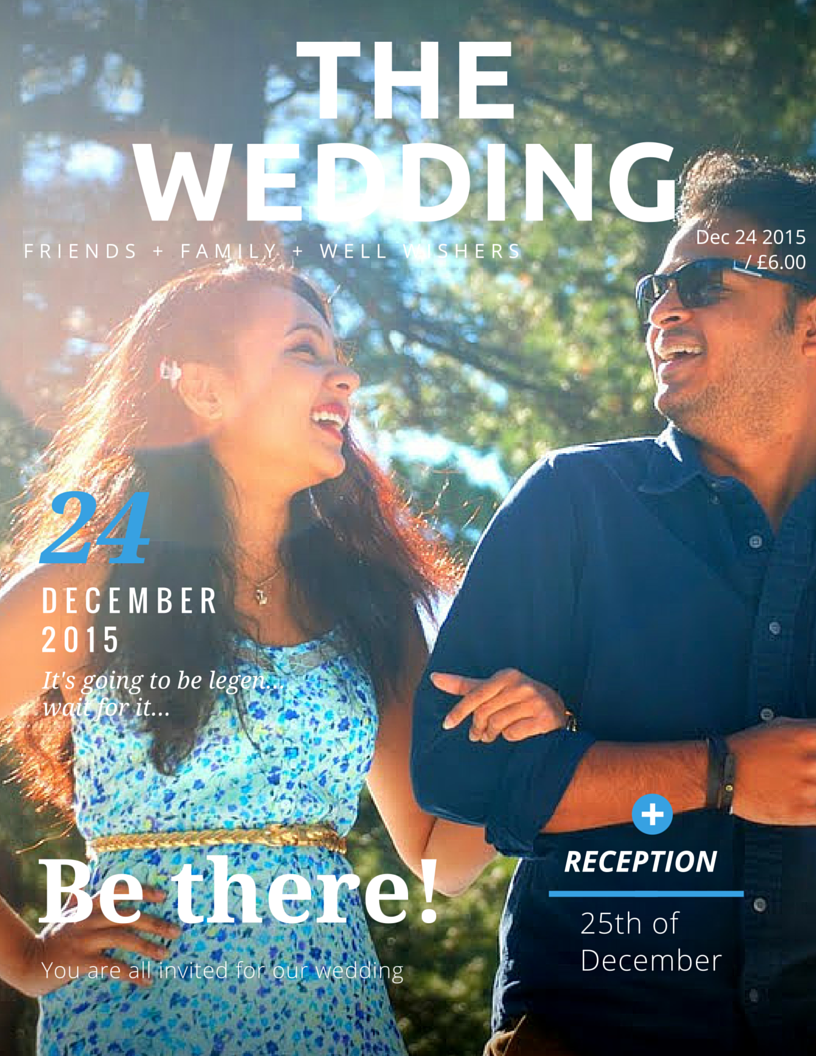
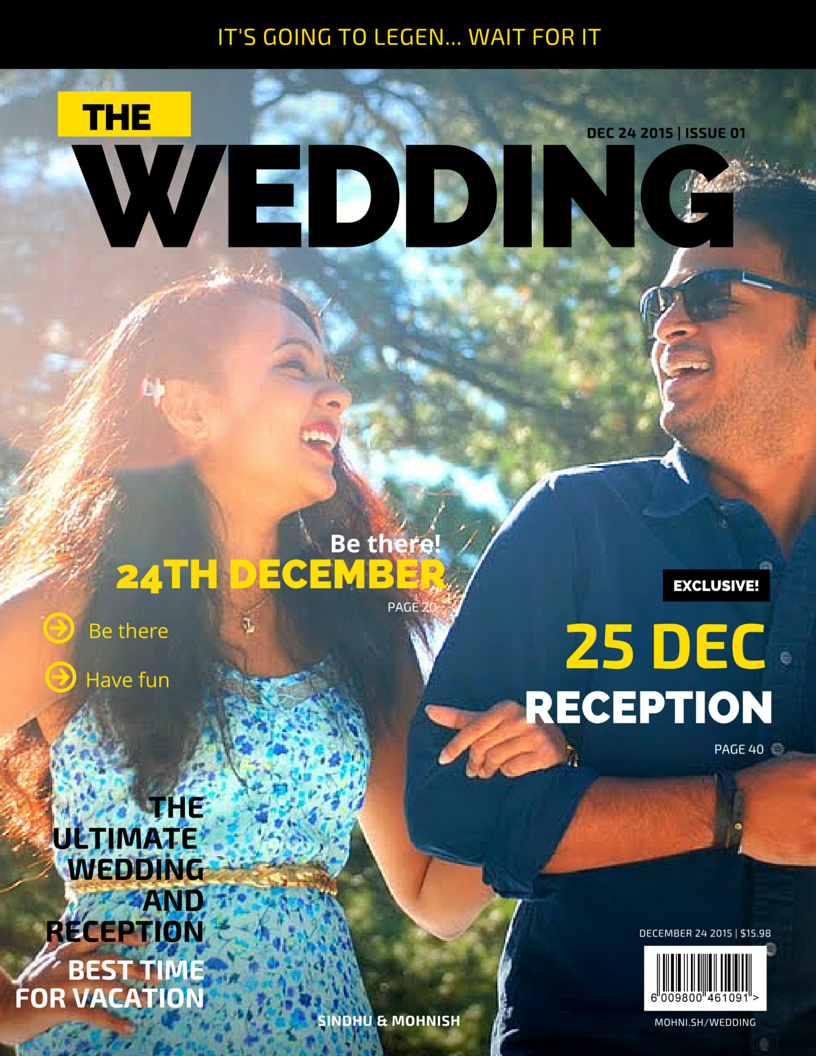
almost finalized

diff --git a/index.html b/index.html
@@ -8,13 +8,14 @@
     <title>Sindhu &amp; Mohnish's Wedding Invitation</title>
   </head>
   <body>
+
     <div class="message-container">
       <p class="message-body-1">
         Sindhu &amp; Mohnish's Wedding Invitation
       </p>
     </div>
 
-    <div class="parallax-window" data-parallax="scroll" data-image-src="img/rajini.JPG"></div>
+    <img class="magazine-cover" src="img/wedding_magazine.png" data-action="zoom" />
 
     <div class="message-container">
       <p class="message-body-2">
@@ -30,24 +31,17 @@
       </p>
     </div>
 
-    <div class="parallax-window" data-parallax="scroll" data-image-src="img/balakrishna.JPG"></div>
+    <div class="parallax-window" data-parallax="scroll" data-image-src="img/powerstar.JPG"></div>
 
     <div class="message-container">
       <p class="message-body-4">
-        You're all invited!
+        You're all invited! <br>
+        For those who can't make it to the wedding, here's the online stream: { coming soon }
       </p>
     </div>
 
-    <div class="parallax-window" data-parallax="scroll" data-image-src="img/powerstar.JPG"></div>
-
     <div class="spacer"></div>
 
-    <div class="magazine">
-      <a class="magazine-toggle">&lt;Click here to check out the Magazine Edition&gt;</a>
-      <img class="magazine-cover" src="img/wedding_magazine.png" data-action="zoom" />
-    </div>
-
-    <div class="spacer"></div>
 
     <div class="credits">
       <span>Photographs by <a href="https://www.facebook.com/Appppssssss">Aparna Mohan</a></span>

diff --git a/css/app.css b/css/app.css
@@ -23,6 +23,12 @@ a {
   color: #fd7f05;
 }
 
+.magazine-cover {
+  display: block;
+  margin-left: auto;
+  margin-right: auto
+}
+
 .message-container .message-body-2 {
   text-align: center;
   font-size: 40px;
@@ -39,16 +45,6 @@ a {
   text-align: center;
   font-size: 40px;
   color: #fd7f05;
-}
-
-.magazine img {
-  display: block;
-  margin: 0 auto;
-}
-
-.magazine-toggle {
-  text-align: center;
-  font-size: 30px;
 }
 
 .spacer {
